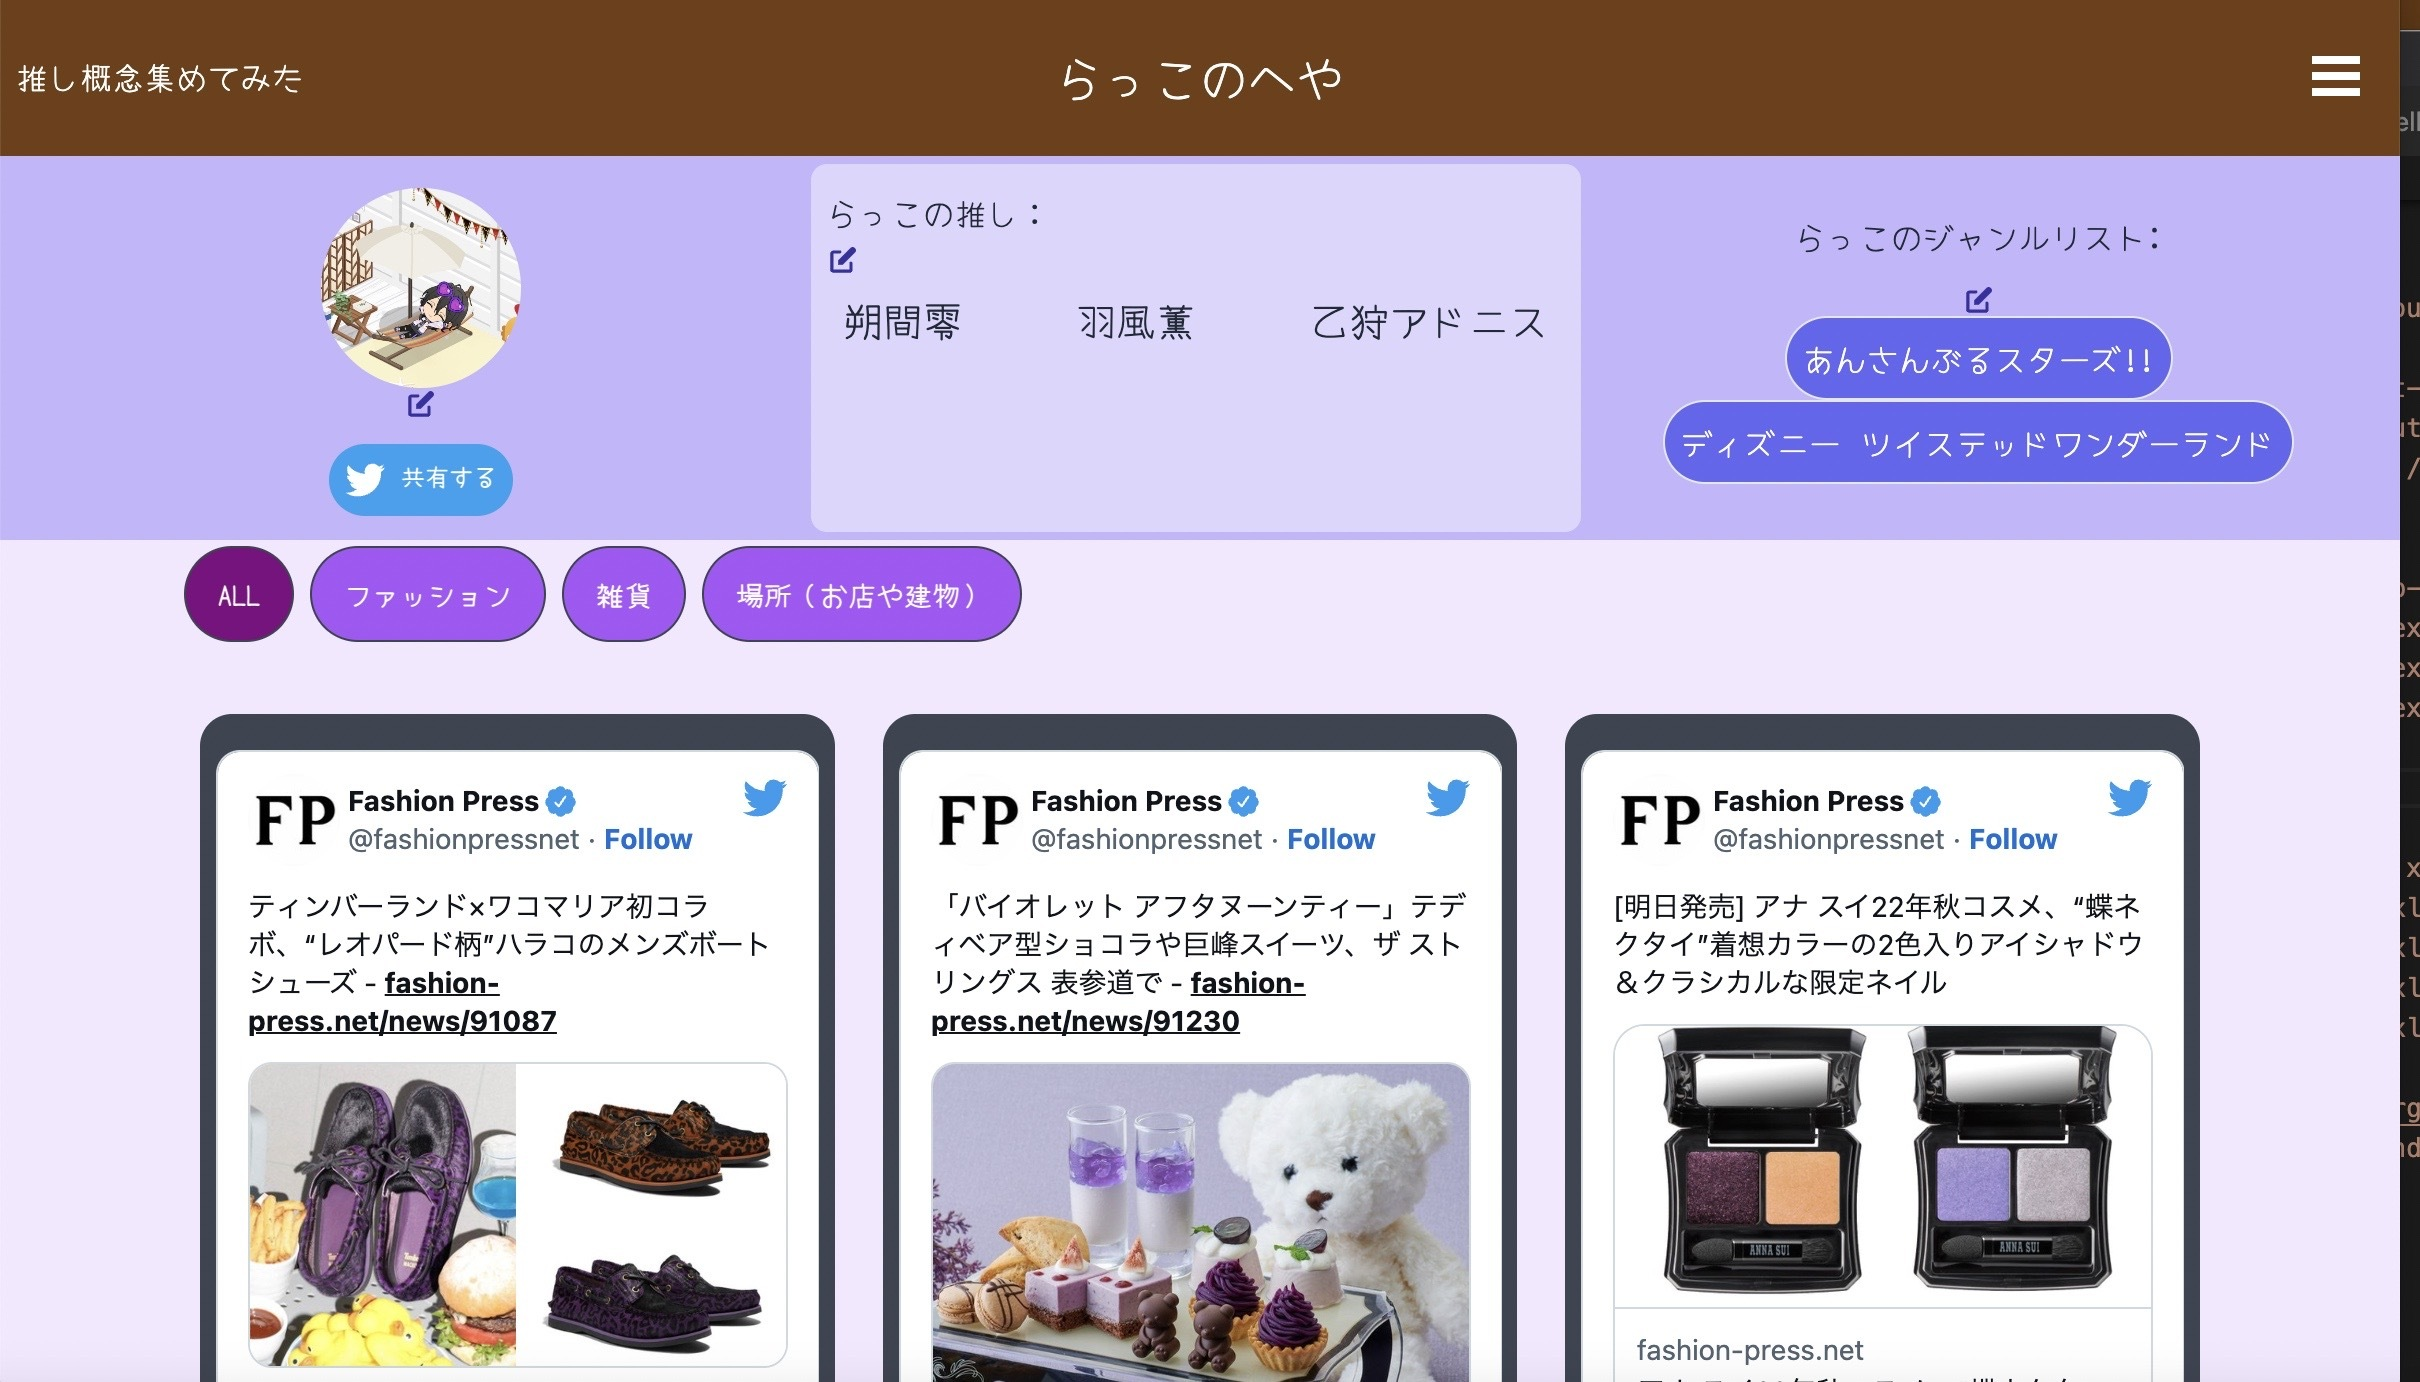
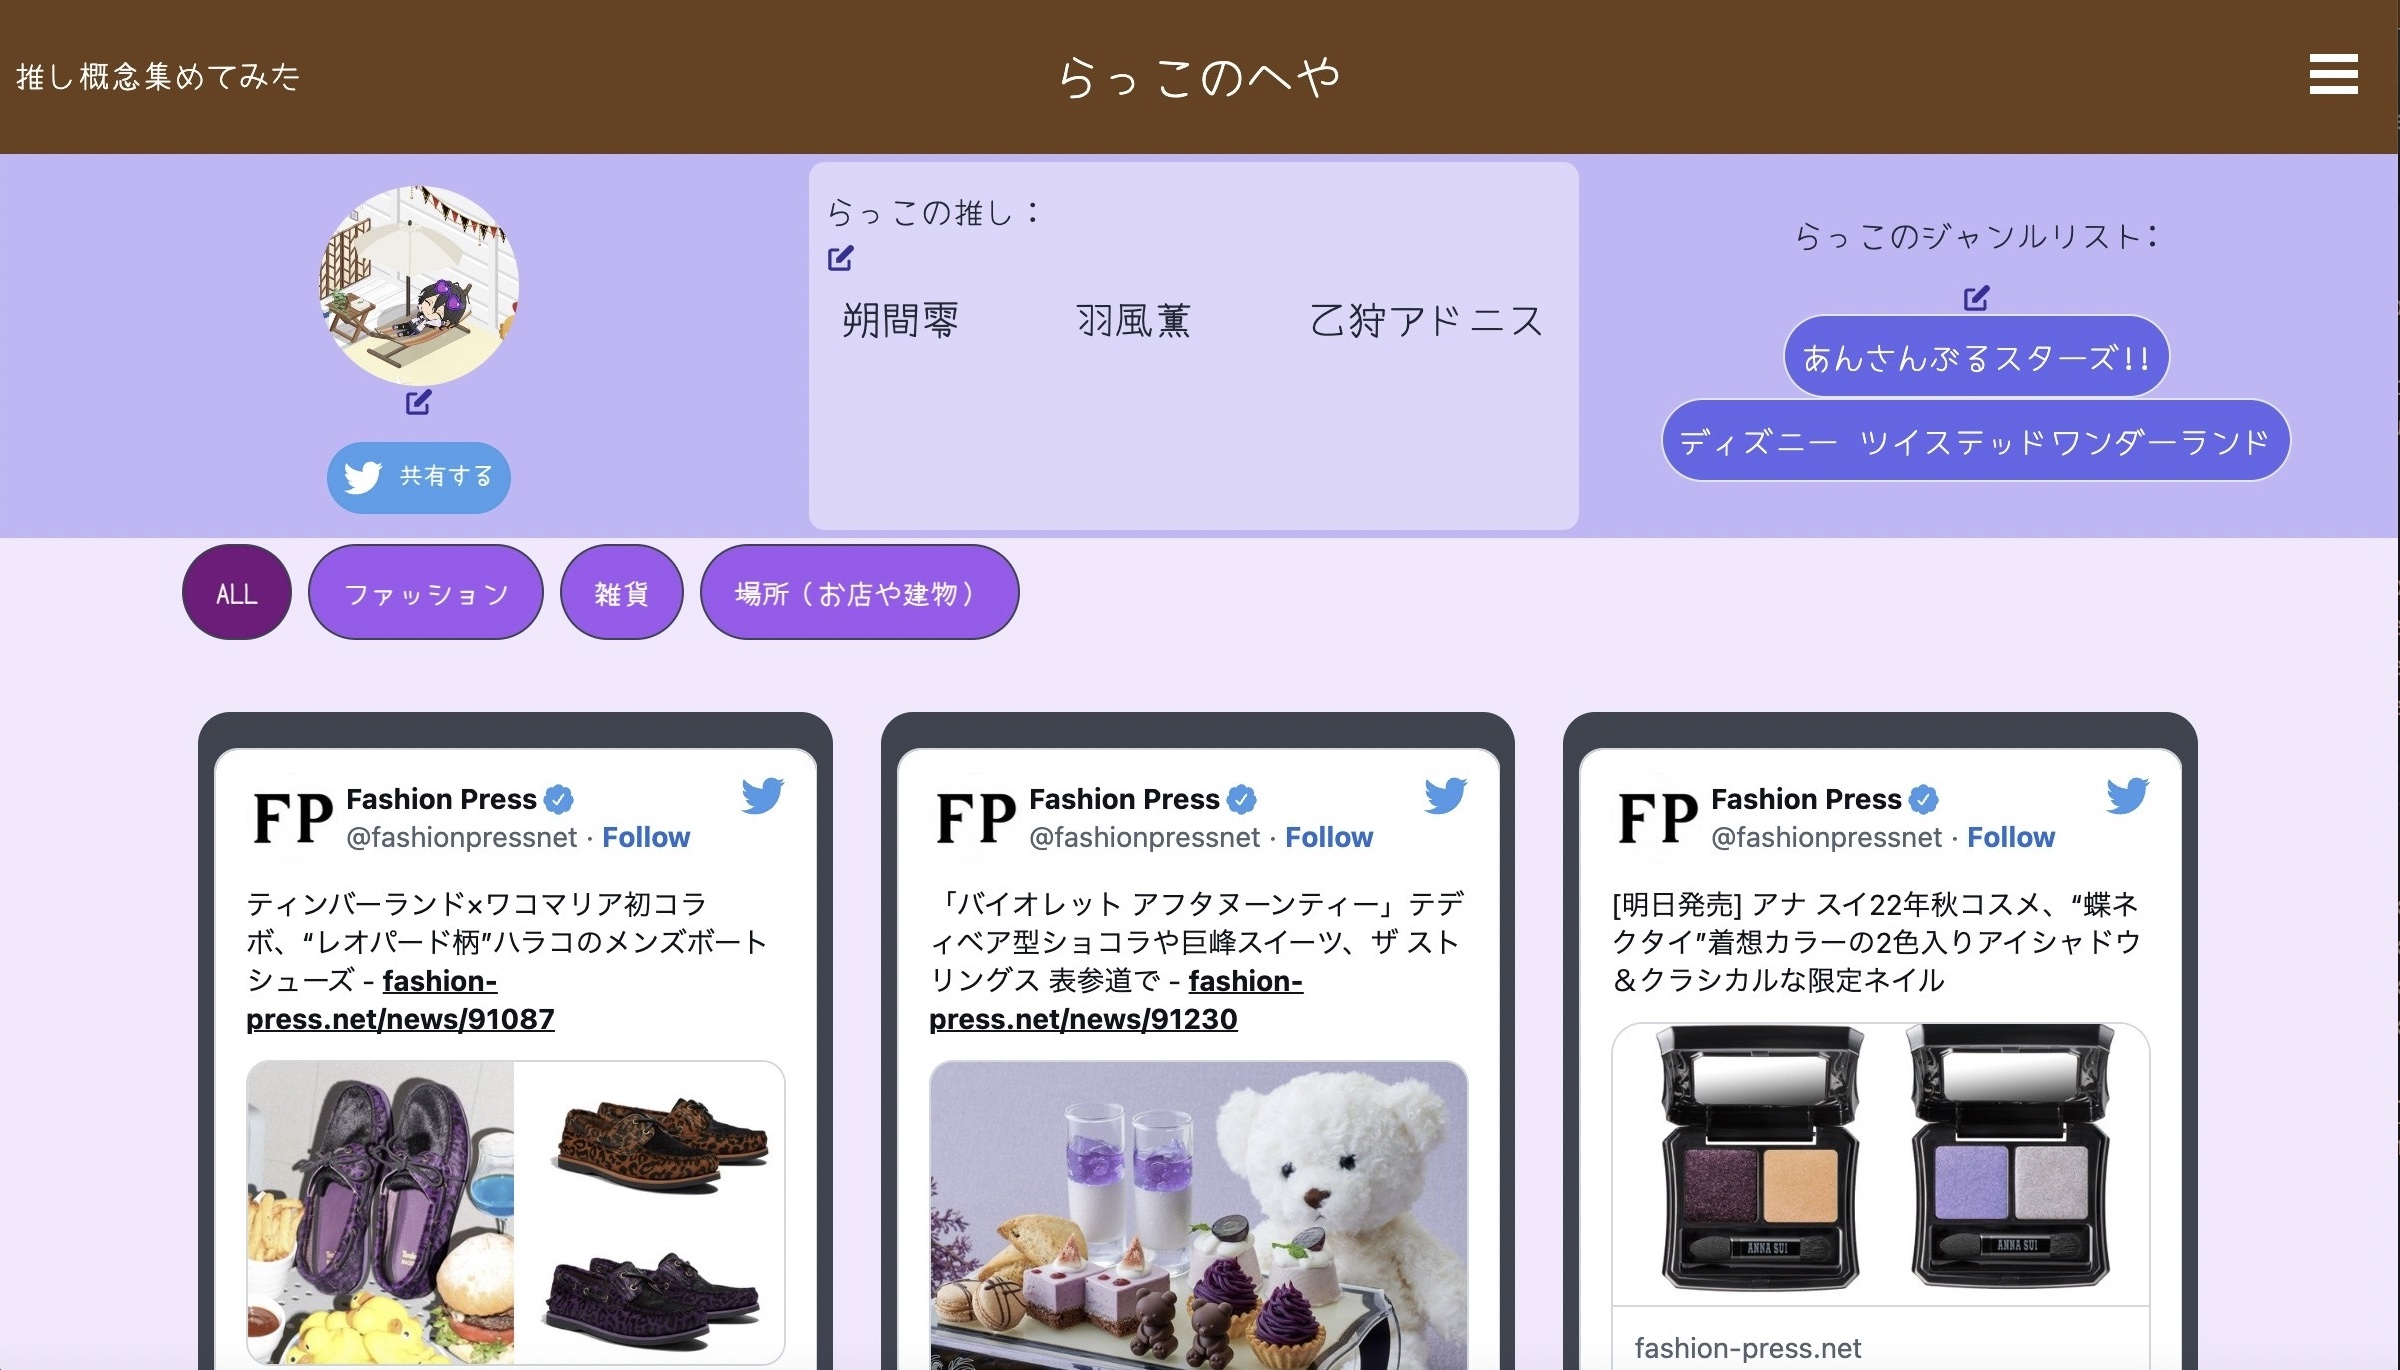
Add:TOPページに背景画像追加

diff --git a/app/javascript/pages/top/index.vue b/app/javascript/pages/top/index.vue
@@ -1,6 +1,6 @@
 <template>
-  <div class="container mx-auto">
-    <div class="bg-purple-100 pb-6 sm:pb-8 lg:pb-12">
+  <div class="top-bg container mx-auto">
+    <div class="pb-6 sm:pb-8 lg:pb-12">
       <div class="max-w-screen-2xl px-4 md:px-8 mx-auto">
         <section class="flex flex-col items-center">
           <div class="max-w-xl flex flex-col items-center text-center pt-8 lg:pt-32 pb-0 sm:pb-16 lg:pb-32">
@@ -27,7 +27,7 @@
               </div>
 
             </div>
-            <div class="text-gray-500 xl:text-lg leading-relaxed mb-8 md:mb-12">
+            <div class="text-purple-500 xl:text-lg leading-relaxed mb-8 md:mb-12">
               <p class="page-font text-xl mb-8">このピアス推しっぽい</p>
               <p class="page-font text-xl mb-8">このカフェ推しのイメージ</p>
               <p class="page-font text-xl mb-8">このポーチの色味推しじゃん！</p>

diff --git a/app/javascript/stylesheets/application.scss b/app/javascript/stylesheets/application.scss
@@ -28,3 +28,11 @@
 .modal {
   display: block;
 }
+.top-bg {
+  background-image: url("../../../public/img/fashion.jpg"), url("../../../public/img/cafe.jpg");
+  background-size: auto 50%, auto 50%;
+  background-position: top, bottom;
+  background-repeat: no-repeat, no-repeat;
+  background-color: rgba(255, 255, 255, 0.7);
+  background-blend-mode:lighten
+}
